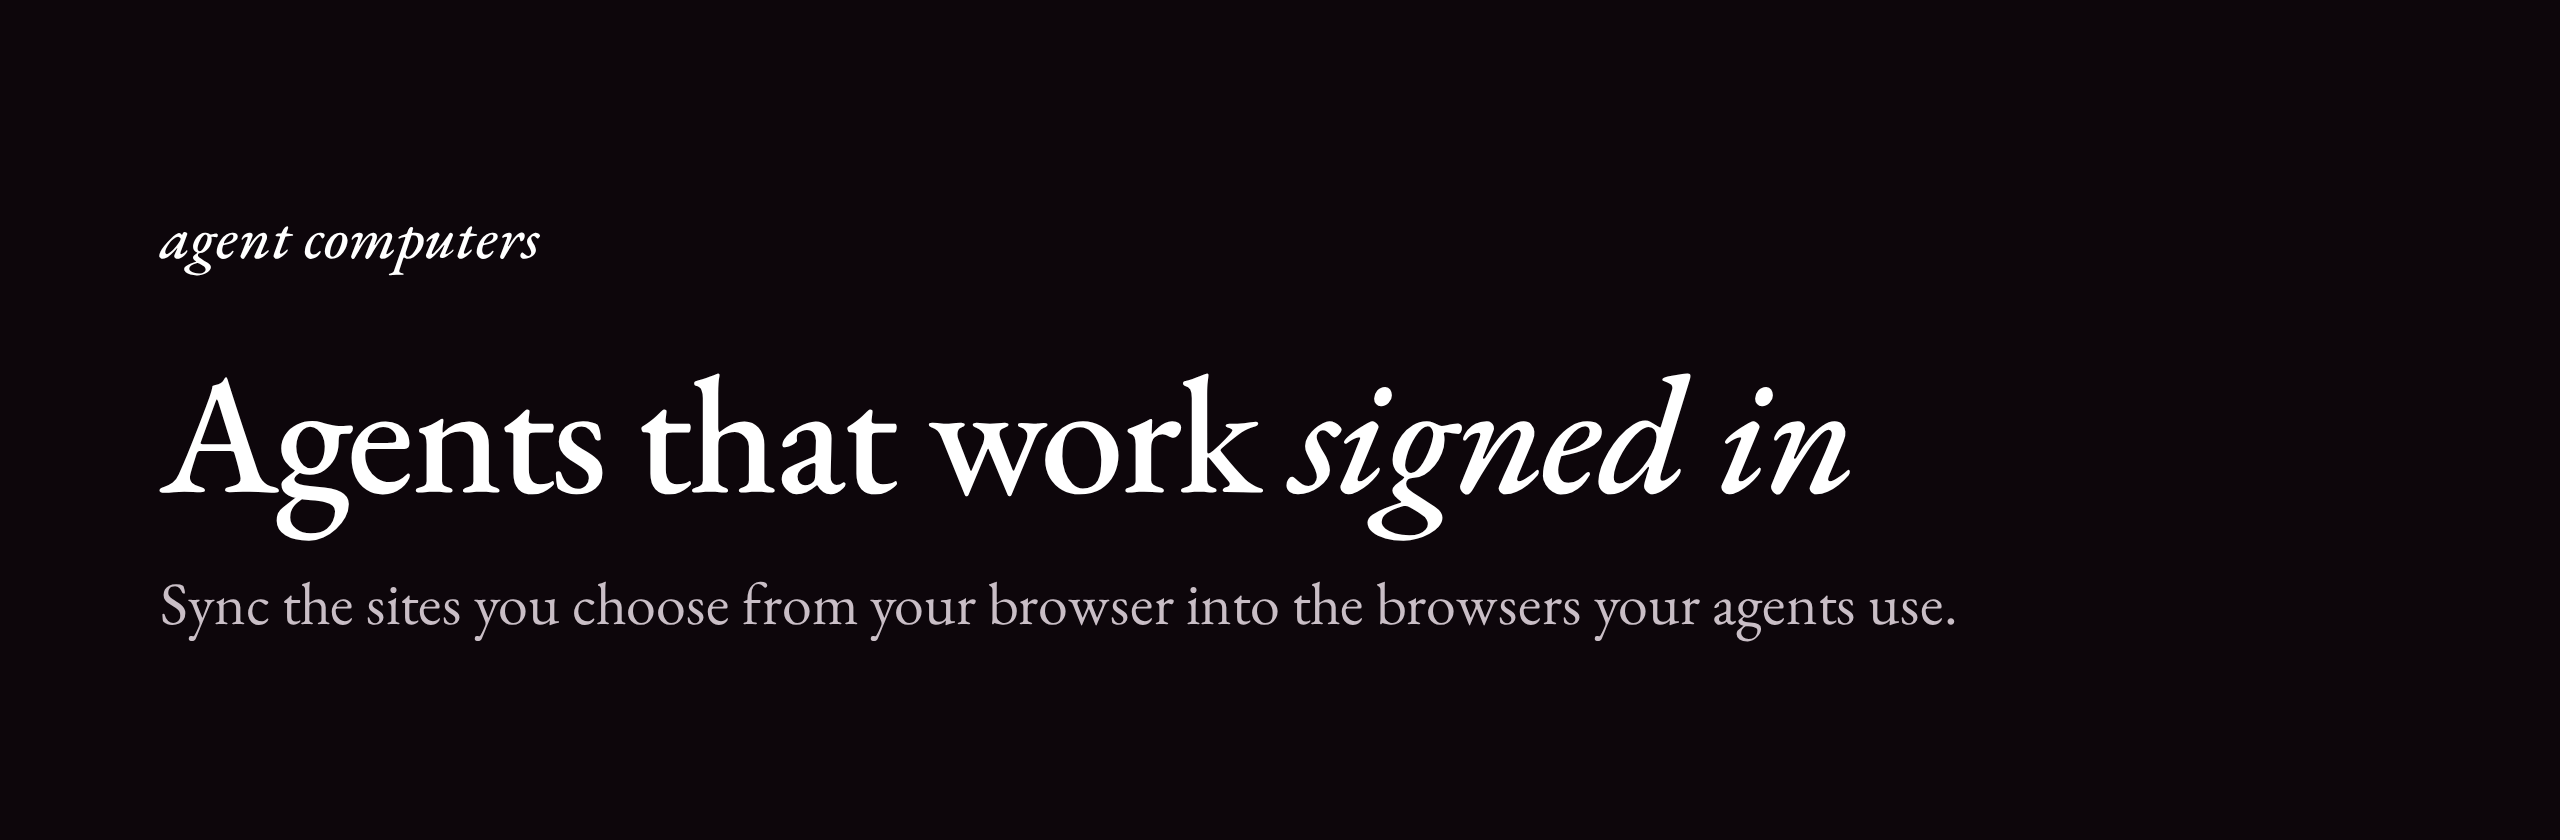
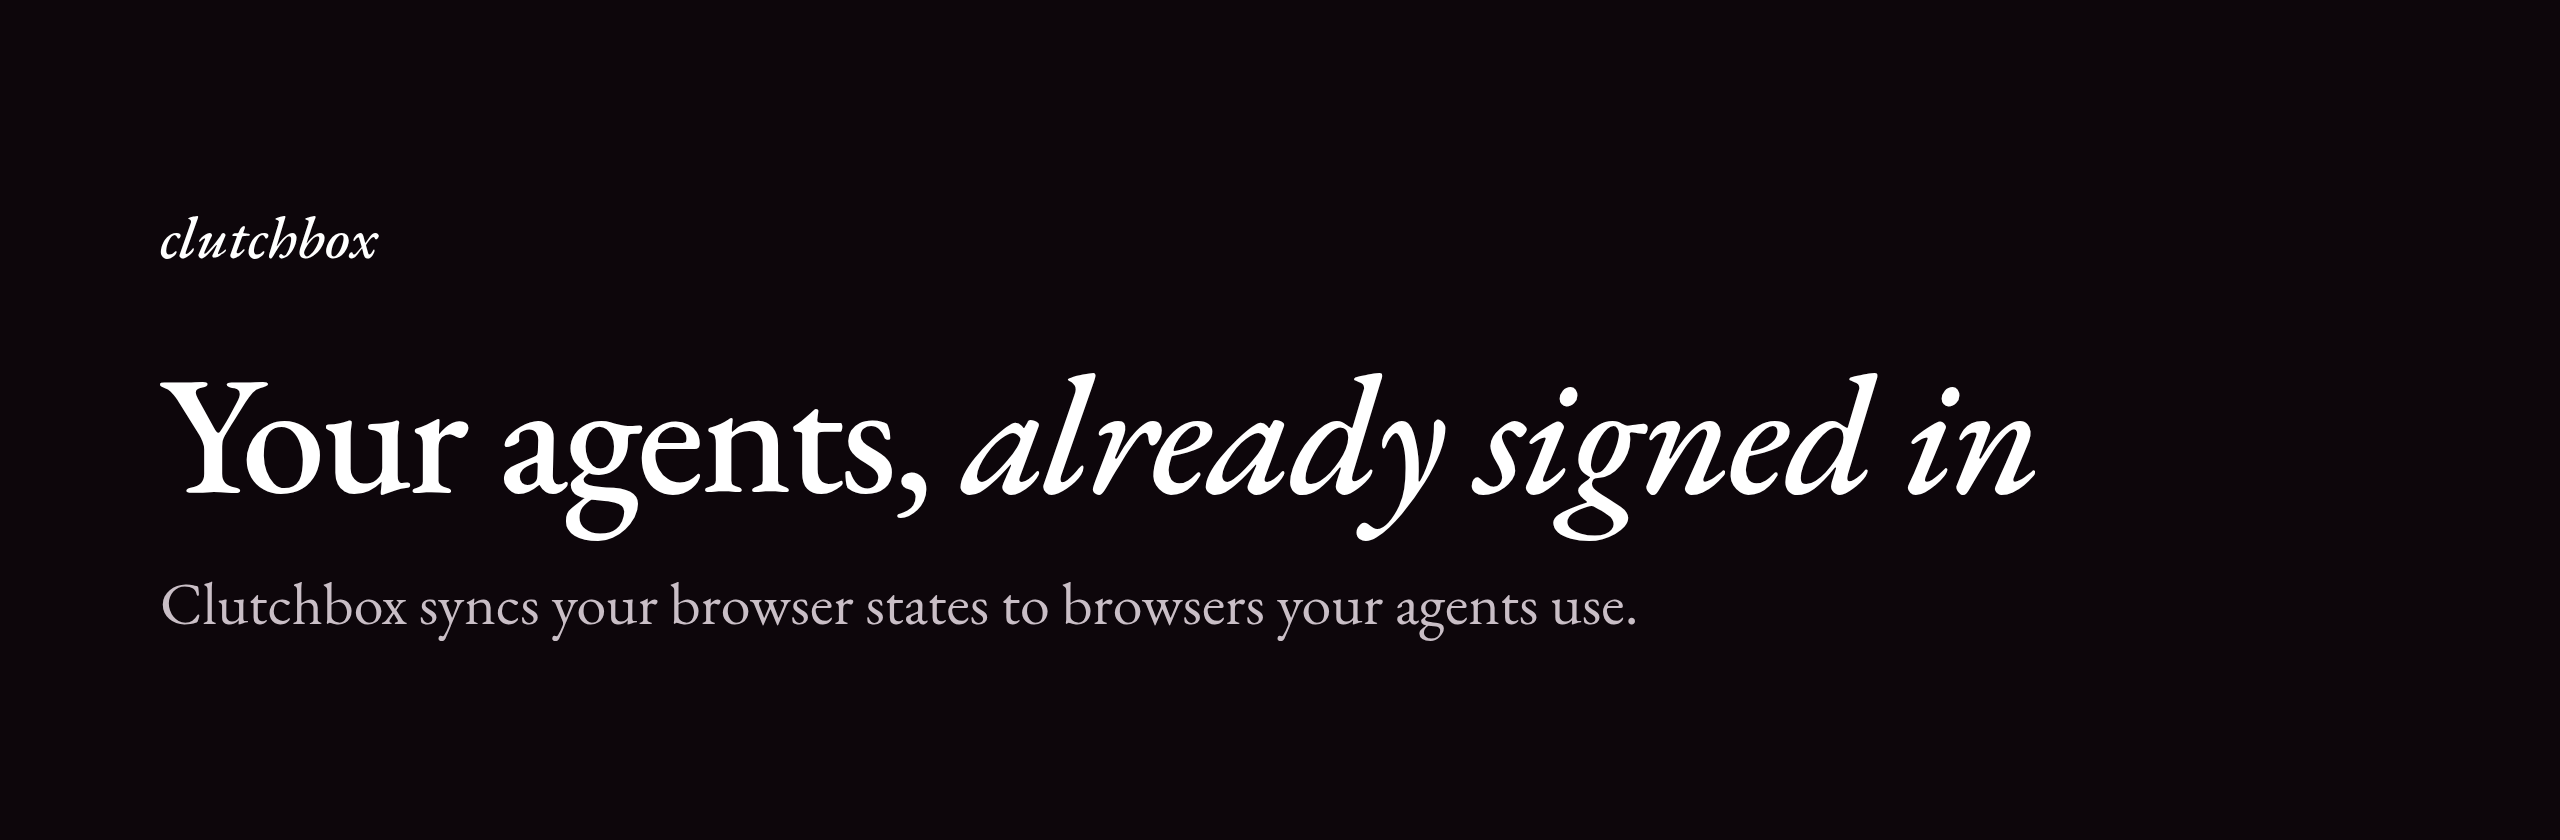
Lead the README with "Your agents, already signed in."
The README and its banner and social preview now lead with the new
slogan and name the project Clutchbox: "Clutchbox syncs your browser
states to browsers your agents use." The hosted service is still
agent-computers.com.

Changed region(s): [[0.0625, 0.4333, 0.8125, 0.65], [0.0625, 0.681, 0.7812, 0.7738], [0.0625, 0.2476, 0.2188, 0.3405]]

diff --git a/scripts/render-readme-images.ts b/scripts/render-readme-images.ts
@@ -1,7 +1,7 @@
 import { mkdir, readFile, writeFile } from 'node:fs/promises';
 import { chromium } from 'playwright-core';
 
-// Renders the README banner and GitHub's social preview into .github/assets, in the Agent Computers brand: EB Garamond
+// Renders the README banner and GitHub's social preview into .github/assets, in the Clutchbox brand: EB Garamond
 // on the plum-black ground. GitHub's social preview is uploaded by hand (Settings, General, Social preview).
 // Rerun after changing the headline or tagline: node --import tsx scripts/render-readme-images.ts
 const font = async (file: string) =>
@@ -13,17 +13,18 @@ const style = `
   html, body { width: 100%; height: 100%; color: #ffffff; font-family: Garamond; }
   .ground { width: 100%; height: 100%; overflow: hidden; background: #0d060b; display: flex; flex-direction: column; }
   .mark { font-style: italic; font-weight: 500; }
+  h1 .mark { white-space: nowrap; }
   h1 { font-weight: 500; line-height: 1.02; letter-spacing: -0.02em; }
   .tagline { line-height: 1.3; color: #c9bec6; }
   .arrow { color: #ff488b; }`;
-const headline = 'Agents that work <span class="mark">signed in</span>';
-const tagline = 'Sync the sites you choose from your browser into the browsers your agents use.';
+const headline = 'Your agents, <span class="mark">already signed in</span>';
+const tagline = 'Clutchbox syncs your browser states to browsers your agents use.';
 const banner = `<div class="ground" style="justify-content:center;padding:0 80px">
-  <p class="mark" style="font-size:30px;margin-bottom:36px">agent computers</p>
+  <p class="mark" style="font-size:30px;margin-bottom:36px">clutchbox</p>
   <h1 style="font-size:84px">${headline}</h1>
   <p class="tagline" style="margin-top:22px;font-size:30px">${tagline}</p></div>`;
 const preview = `<div class="ground" style="justify-content:space-between;padding:72px 84px">
-  <p class="mark" style="font-size:36px">agent computers</p>
+  <p class="mark" style="font-size:36px">clutchbox</p>
   <div><h1 style="font-size:104px">${headline}</h1>
   <p class="tagline" style="margin-top:28px;max-width:46ch;font-size:36px">${tagline}</p></div>
   <p class="tagline" style="font-size:28px">Open source <span class="arrow">→</span> Playwright, browser-use, E2B, any Chrome over CDP</p></div>`;

diff --git a/README.md b/README.md
@@ -1,6 +1,6 @@
 <div align="center">
   <a href="https://www.agent-computers.com">
-    <img src=".github/assets/banner.png" alt="Agent Computers: agents that work signed in. Sync the sites you choose from your browser into the browsers your agents use." width="100%">
+    <img src=".github/assets/banner.png" alt="Clutchbox: your agents, already signed in. Clutchbox syncs your browser states to browsers your agents use." width="100%">
   </a>
 
   <p>
@@ -22,7 +22,7 @@
   </p>
 </div>
 
-**Agent Computers syncs your browser's sign-ins to your AI agents.** A Chrome extension captures the sites you choose and keeps them current in the background, one way. Your agent's browser (Playwright, browser-use, Stagehand, an E2B sandbox, or any Chrome over CDP) then starts signed in instead of blank. No passwords typed, no 2FA prompts, and no signing in again in every sandbox.
+**Clutchbox syncs your browser states to browsers your agents use.** A Chrome extension captures the sites you choose and keeps them current in the background, one way. Your agent's browser (Playwright, browser-use, Stagehand, an E2B sandbox, or any Chrome over CDP) then starts signed in instead of blank. No passwords typed, no 2FA prompts, and no signing in again in every sandbox.
 
 Everything here is Apache-2.0: the extension, the capture format, the apply runtime, the provider adapters, and the whole web app for one organization, with sign-in, browser sync, agent computers with live view and takeover, and the MCP server agents connect to. Run all of it yourself, or use the hosted service at [agent-computers.com](https://www.agent-computers.com).
 
@@ -34,7 +34,7 @@ Most of what people want agents to do happens behind a sign-in: email, calendars
 - You sign in again inside each provider's cloud browser, once per site and once per provider.
 - You export a cookie file once, and it goes stale within days.
 
-Agent Computers keeps a live, consented copy of the sessions you already have, and applies it to whichever browser your agent uses.
+Clutchbox keeps a live, consented copy of the sessions you already have, and applies it to whichever browser your agent uses.
 
 ## How it works
 
@@ -173,7 +173,7 @@ Report vulnerabilities privately: see [SECURITY.md](SECURITY.md).
 
 ## How it compares
 
-| | Agent Computers | Cloud browser profiles (Browserbase contexts, Kernel profiles) | Exported cookie files | Giving the agent your password |
+| | Clutchbox | Cloud browser profiles (Browserbase contexts, Kernel profiles) | Exported cookie files | Giving the agent your password |
 | --- | --- | --- | --- | --- |
 | Uses the sessions you already have | ✅ | Sign in again in their browser | ✅ | Agent signs in |
 | Stays current | Syncs in the background | Until the session expires | One-off snapshot | Per sign-in |
